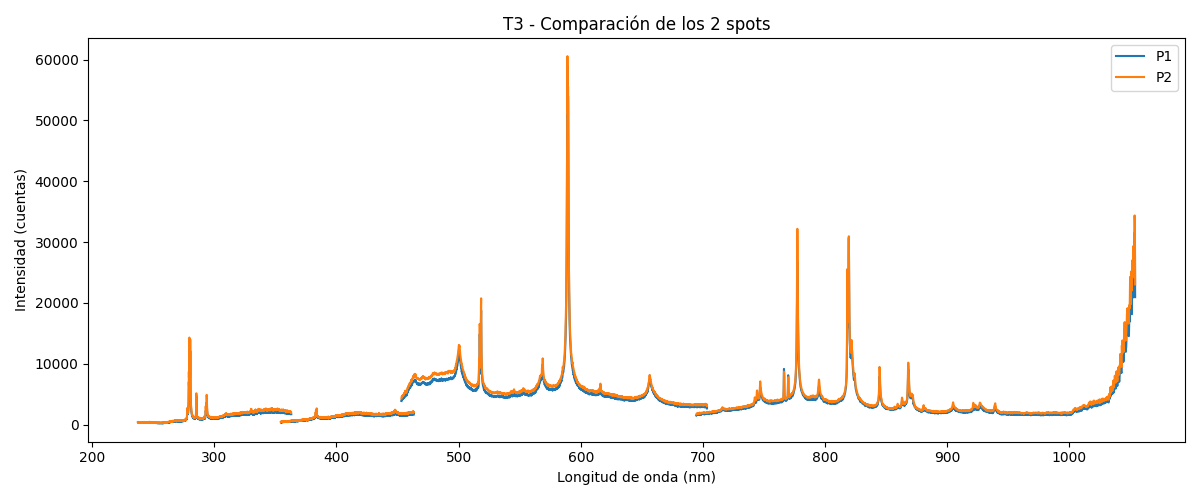
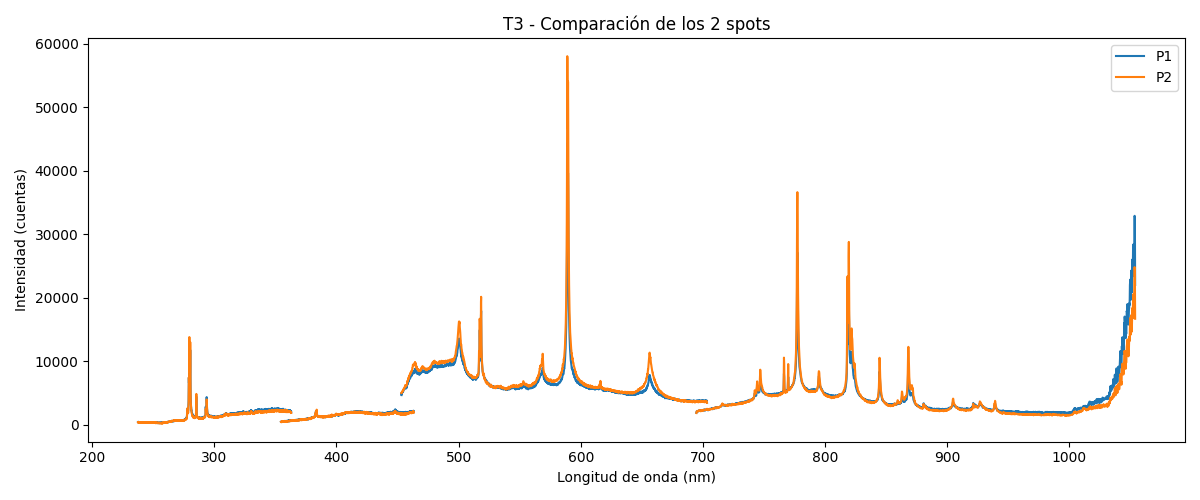
Update

diff --git a/Main/main2.py b/Main/main2.py
@@ -1,0 +1,43 @@
+import os
+import sys
+sys.path.append('C:/Users/elsam/Documents/GitHub/LIBS_QUANTIFICATION_INTA')
+from LIBS_quantification_toolbox import * 
+import numpy as np
+
+# Directorio base donde se encuentran los datos
+espectra = "Spectra"
+base_dir = "FinalSamplesTrial/Level0"
+nombre_base = "LV0"  # Ajusta si tus archivos tienen un patrón diferente
+
+# Iterar sobre M1 a M28 y P1 a P3
+for i in range(1, 29):
+    carpeta_m = f"M{i}"
+    for j in range(1, 4):
+        carpeta_p = f"P{j}"
+        ruta_relativa = os.path.join(espectra, base_dir, carpeta_m, carpeta_p)
+        
+        if not os.path.exists(ruta_relativa):
+            print(f"Saltando {ruta_relativa}, no existe.")
+            continue
+        
+        try:
+            ruta_relativa2 = os.path.join(base_dir, carpeta_m, carpeta_p)
+            ws, intensidades, nombres = cargar_espectros_5shotspromV2_0(ruta_relativa2, nombre_base = None)
+
+            if intensidades is None:
+                print(f"Saltando {ruta_relativa}, sin espectros válidos.")
+                continue
+
+            # Guardado tras preprocesado
+            archivo_salida_preproc = ruta_relativa.replace("Level0", "Level1").replace("P", "PP") + "_preproc.txt"
+            os.makedirs(os.path.dirname(archivo_salida_preproc), exist_ok=True)
+
+            for i_band, (w, s) in enumerate(zip(ws, intensidades)):
+                apply_preprocessing_and_save(s, w, archivo_salida_preproc.replace(".txt", f"_band{i_band}.txt"))
+
+            # Guardar gráfico
+            nombre_figura = archivo_salida_preproc.replace(".txt", ".png")
+            plot_and_save_spectra(ws, intensidades, f"Espectros {carpeta_m}-{carpeta_p}", nombre_figura, nombres)
+
+        except Exception as e:
+            print(f"Error en {ruta_relativa}: {e}")

diff --git a/Main/main.py b/Main/main.py
@@ -44,7 +44,7 @@ plot_and_save_spectra(lambdas_T3_P2, espectros_T3_P2, "T3-P2", "Spectra/FinalSam
 #Guardar imágenes NIVEL-1 superpuestas
 plot_and_save_spectra([lambdas_T1_P1, lambdas_T1_P2, lambdas_T1_P3], [espectros_T1_P1, espectros_T1_P2, espectros_T1_P3], "T1 - Comparación de los 3 spots", "Spectra/FinalSamplesTrial/Level1/LV1_T1_P1-2-3.png", ["P1","P2","P3"])
 plot_and_save_spectra([lambdas_T2_P1, lambdas_T2_P2, lambdas_T2_P3], [espectros_T2_P1, espectros_T2_P2, espectros_T2_P3], "T2 - Comparación de los 3 spots", "Spectra/FinalSamplesTrial/Level1/LV1_T2_P1-2-3.png", ["P1","P2","P3"])
-plot_and_save_spectra([lambdas_T3_P1, lambdas_T3_P2], [espectros_T2_P1, espectros_T2_P2], "T3 - Comparación de los 2 spots", "Spectra/FinalSamplesTrial/Level1/LV1_T3_P1-2-3.png", ["P1","P2"])
+plot_and_save_spectra([lambdas_T3_P1, lambdas_T3_P2], [espectros_T3_P1, espectros_T3_P2], "T3 - Comparación de los 2 spots", "Spectra/FinalSamplesTrial/Level1/LV1_T3_P1-2-3.png", ["P1","P2"])
 
 #Guardar imágenes NIVEL-2
 plot_and_save_spectra(ws1, processed_spectra_T1_P1, "T1-P1-Preprocessed", "Spectra/FinalSamplesTrial/Level2/LV2_T1_P1.png")
